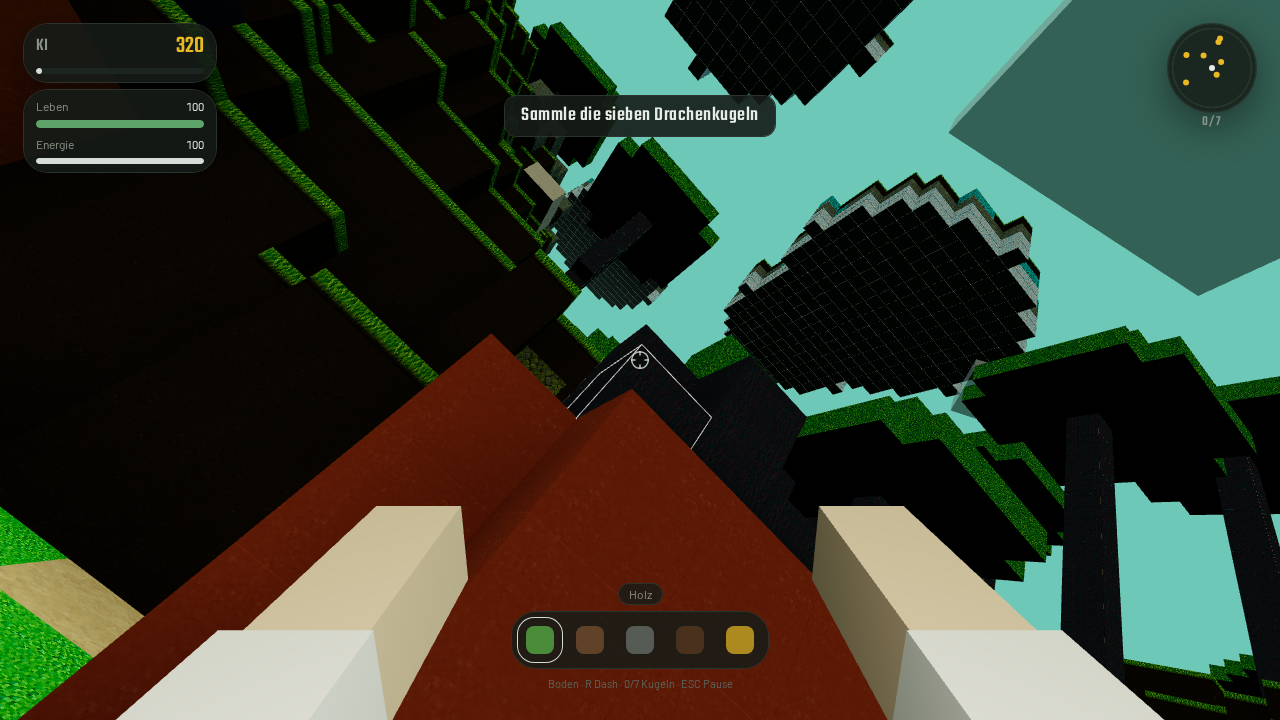
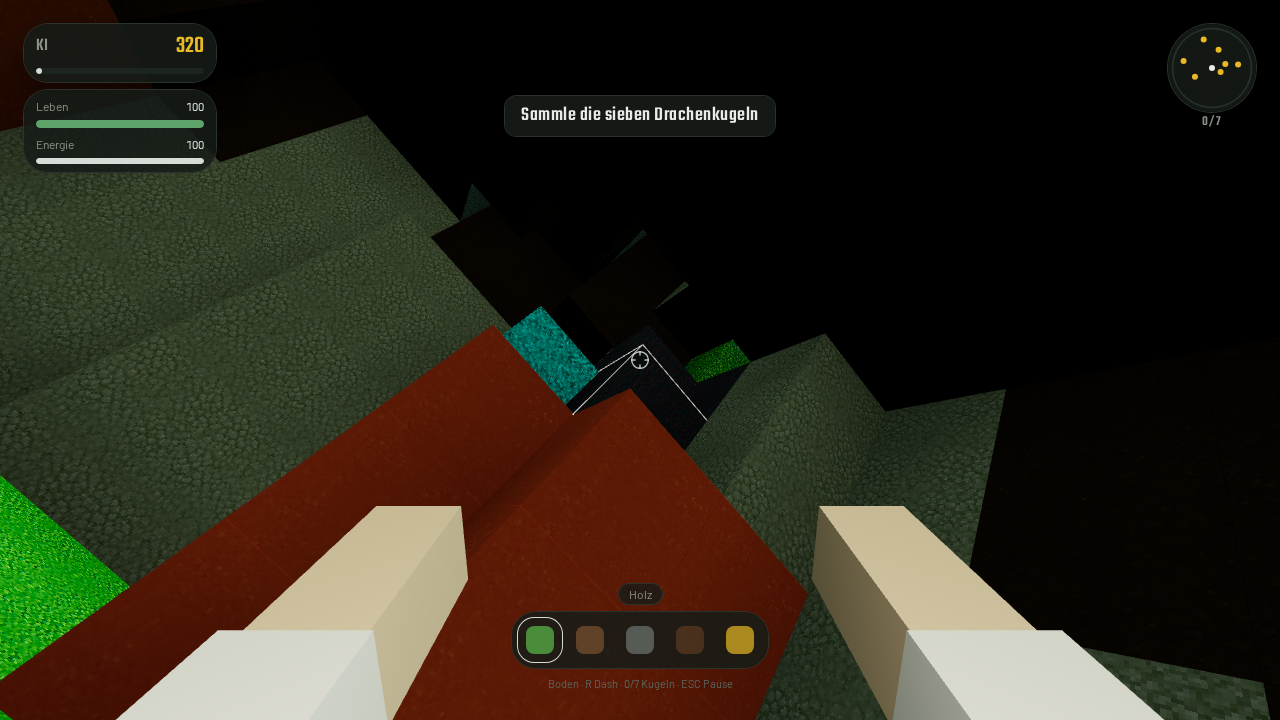
Fix load hang when animation frames are paused
World-gen and chunk meshing now yield via timers, textures no longer block
the title, and the game loop keeps pumping if rAF never fires.

diff --git a/src/game/engine.ts b/src/game/engine.ts
@@ -174,6 +174,7 @@ export class GameEngine {
   private toastT = 0;
   private orbitT = 0;
   private raf = 0;
+  private pump = 0;
   private last = 0;
   private acc = 0;
   private disposed = false;
@@ -297,20 +298,23 @@ export class GameEngine {
 
   async start() {
     if (this.disposed) return;
-    const [atlas, skyTex, kiTex, ballImg] = await Promise.all([
+    useHud.getState().patch({ loadProgress: 0.05 });
+    const texP = Promise.all([
       loadAtlasTexture(),
       loadGameTexture("/game/sky.jpg"),
       loadGameTexture("/game/ki-orb.png"),
       loadHtmlImage("/game/ball.png"),
     ]);
-    if (this.disposed) return;
-    this.atlas.dispose();
-    this.atlas = atlas;
-    this.terrainMat.map = atlas;
-    this.terrainMat.needsUpdate = true;
-    if (skyTex) this.applySkyTex(skyTex);
-    this.kiOrbTex = kiTex;
-    this.ballBase = ballImg;
+    void texP.then(([atlas, skyTex, kiTex, ballImg]) => {
+      if (this.disposed) return;
+      this.atlas.dispose();
+      this.atlas = atlas;
+      this.terrainMat.map = atlas;
+      this.terrainMat.needsUpdate = true;
+      if (skyTex) this.applySkyTex(skyTex);
+      this.kiOrbTex = kiTex;
+      this.ballBase = ballImg;
+    });
 
     const existing = loadSave();
     if (existing) {
@@ -367,36 +371,59 @@ export class GameEngine {
       ssjReady: this.power >= SSJ_POWER,
       hasSave: hasSave(),
     });
+    this.beginLoop();
+  }
+
+  private async buildAllChunks() {
+    const scx = Math.max(0, Math.min(CX - 1, Math.floor(this.px / CHUNK)));
+    const scy = Math.max(0, Math.min(CY - 1, Math.floor(this.py / CHUNK)));
+    const scz = Math.max(0, Math.min(CZ - 1, Math.floor(this.pz / CHUNK)));
+    const order: [number, number, number, number][] = [];
+    for (let cy = 0; cy < CY; cy++) {
+      for (let cz = 0; cz < CZ; cz++) {
+        for (let cx = 0; cx < CX; cx++) {
+          const d = Math.abs(cx - scx) + Math.abs(cy - scy) + Math.abs(cz - scz);
+          order.push([d, cx, cy, cz]);
+        }
+      }
+    }
+    order.sort((a, b) => a[0] - b[0]);
+    const total = order.length;
+    let n = 0;
+    for (const [, cx, cy, cz] of order) {
+      this.rebuildChunk(cx, cy, cz);
+      n++;
+      if (n % 8 === 0) {
+        useHud.getState().patch({ loadProgress: 0.44 + (n / total) * 0.54 });
+        await yieldFrame();
+        if (this.disposed) return;
+      }
+    }
+  }
+
+  private beginLoop() {
     this.last = performance.now();
     this.titleCam();
     this.render(0);
     const loop = (now: number) => {
       if (this.disposed) return;
       this.raf = requestAnimationFrame(loop);
-      let dt = (now - this.last) / 1000;
-      this.last = now;
-      dt = Math.min(dt, 0.1);
-      this.frame(dt);
+      this.tick(now);
     };
     this.raf = requestAnimationFrame(loop);
+    if (this.pump) clearInterval(this.pump);
+    this.pump = window.setInterval(() => {
+      if (this.disposed) return;
+      const now = performance.now();
+      if (now - this.last > 80) this.tick(now);
+    }, 50);
   }
 
-  private async buildAllChunks() {
-    let n = 0;
-    const total = CX * CY * CZ;
-    for (let cy = 0; cy < CY; cy++) {
-      for (let cz = 0; cz < CZ; cz++) {
-        for (let cx = 0; cx < CX; cx++) {
-          this.rebuildChunk(cx, cy, cz);
-          n++;
-          if (n % 10 === 0) {
-            useHud.getState().patch({ loadProgress: 0.18 + (n / total) * 0.78 });
-            await yieldFrame();
-            if (this.disposed) return;
-          }
-        }
-      }
-    }
+  private tick(now: number) {
+    let dt = (now - this.last) / 1000;
+    this.last = now;
+    dt = Math.min(dt, 0.1);
+    this.frame(dt);
   }
 
   private rebuildChunk(cx: number, cy: number, cz: number) {
@@ -2032,6 +2059,10 @@ export class GameEngine {
   dispose() {
     this.disposed = true;
     cancelAnimationFrame(this.raf);
+    if (this.pump) {
+      clearInterval(this.pump);
+      this.pump = 0;
+    }
     this.flushSave();
     this.input.dispose();
     window.removeEventListener("resize", this.onResize);
@@ -2085,15 +2116,43 @@ export class GameEngine {
 }
 
 function yieldFrame() {
-  return new Promise<void>((r) => requestAnimationFrame(() => r()));
+  return new Promise<void>((resolve) => {
+    let settled = false;
+    const done = () => {
+      if (settled) return;
+      settled = true;
+      resolve();
+    };
+    setTimeout(done, 0);
+    try {
+      const ch = new MessageChannel();
+      ch.port1.onmessage = done;
+      ch.port2.postMessage(0);
+    } catch {
+      /* setTimeout covers this */
+    }
+  });
 }
 
 function loadHtmlImage(url: string): Promise<HTMLImageElement | null> {
   return new Promise((resolve) => {
+    let settled = false;
+    const finish = (img: HTMLImageElement | null) => {
+      if (settled) return;
+      settled = true;
+      resolve(img);
+    };
+    const t = window.setTimeout(() => finish(null), 4000);
     const img = new Image();
     img.crossOrigin = "anonymous";
-    img.onload = () => resolve(img);
-    img.onerror = () => resolve(null);
+    img.onload = () => {
+      window.clearTimeout(t);
+      finish(img);
+    };
+    img.onerror = () => {
+      window.clearTimeout(t);
+      finish(null);
+    };
     img.src = url;
   });
 }

diff --git a/src/game/world.ts b/src/game/world.ts
@@ -69,8 +69,20 @@ function disk(dx: number, dz: number, r: number) {
 
 function yieldThread() {
   return new Promise<void>((resolve) => {
-    if (typeof requestAnimationFrame === "function") requestAnimationFrame(() => resolve());
-    else setTimeout(resolve, 0);
+    let settled = false;
+    const done = () => {
+      if (settled) return;
+      settled = true;
+      resolve();
+    };
+    setTimeout(done, 0);
+    try {
+      const ch = new MessageChannel();
+      ch.port1.onmessage = done;
+      ch.port2.postMessage(0);
+    } catch {
+      /* setTimeout covers this */
+    }
   });
 }
 
@@ -216,12 +228,18 @@ export class World {
           if (y === 0) id = BEDROCK;
           else if (y < h - 5) {
             id = STONE;
-            const cave = noise3(x * 0.06, y * 0.085, z * 0.06);
-            const ravine = Math.abs(noiseRav(x * 0.035, y * 0.04, z * 0.035));
-            if (y > 4 && y < h - 2 && cave > 0.52) id = AIR;
-            else if (y > 6 && y < h - 1 && ravine < 0.07 && elev > 0.28) id = AIR;
-            else if (cave > 0.38 && cave < 0.46 && rngC() < 0.22) id = KI;
-            else if (rngC() < 0.012) id = KI;
+            if (y > 4) {
+              const cave = noise3(x * 0.06, y * 0.085, z * 0.06);
+              if (y < h - 2 && cave > 0.52) id = AIR;
+              else if (y > 6) {
+                const ravine = Math.abs(noiseRav(x * 0.035, y * 0.04, z * 0.035));
+                if (y < h - 1 && ravine < 0.07 && elev > 0.28) id = AIR;
+              }
+              if (id === STONE) {
+                if (cave > 0.38 && cave < 0.46 && rngC() < 0.22) id = KI;
+                else if (rngC() < 0.012) id = KI;
+              }
+            } else if (rngC() < 0.012) id = KI;
           } else if (y < h - 1) {
             id = elev > 0.7 ? STONE : DIRT;
           } else if (y === h) {

diff --git a/src/game/textures.ts b/src/game/textures.ts
@@ -241,30 +241,54 @@ export function createAtlasTexture(): THREE.CanvasTexture {
 
 export function loadAtlasTexture(): Promise<THREE.Texture> {
   return new Promise((resolve) => {
+    let settled = false;
+    const finish = (tex: THREE.Texture) => {
+      if (settled) return;
+      settled = true;
+      resolve(tex);
+    };
+    const t = window.setTimeout(() => finish(createAtlasTexture()), 4000);
     const loader = new THREE.TextureLoader();
     loader.setCrossOrigin("anonymous");
     loader.load(
       "/game/atlas.png",
-      (tex) => resolve(styleAtlas(tex)),
+      (tex) => {
+        window.clearTimeout(t);
+        finish(styleAtlas(tex));
+      },
       undefined,
-      () => resolve(createAtlasTexture()),
+      () => {
+        window.clearTimeout(t);
+        finish(createAtlasTexture());
+      },
     );
   });
 }
 
 export function loadGameTexture(url: string): Promise<THREE.Texture | null> {
   return new Promise((resolve) => {
+    let settled = false;
+    const finish = (tex: THREE.Texture | null) => {
+      if (settled) return;
+      settled = true;
+      resolve(tex);
+    };
+    const t = window.setTimeout(() => finish(null), 4000);
     const loader = new THREE.TextureLoader();
     loader.setCrossOrigin("anonymous");
     loader.load(
       url,
       (tex) => {
+        window.clearTimeout(t);
         tex.colorSpace = THREE.SRGBColorSpace;
         tex.needsUpdate = true;
-        resolve(tex);
+        finish(tex);
       },
       undefined,
-      () => resolve(null),
+      () => {
+        window.clearTimeout(t);
+        finish(null);
+      },
     );
   });
 }

diff --git a/src/components/game-app.tsx b/src/components/game-app.tsx
@@ -23,21 +23,26 @@ export function GameApp() {
   useEffect(() => {
     const canvas = canvasRef.current;
     if (!canvas) return;
-    let cancelled = false;
+    let alive = true;
     let engine: GameEngine | null = null;
-    void import("@/game/engine")
-      .then(({ GameEngine }) => {
-        if (cancelled || !canvasRef.current) return;
+    const failTimer = window.setTimeout(() => {
+      if (alive && useHud.getState().phase === "loading") setFail(true);
+    }, 25000);
+    void (async () => {
+      try {
+        const { GameEngine } = await import("@/game/engine");
+        if (!alive || !canvasRef.current) return;
         engine = new GameEngine(canvasRef.current);
         engineRef.current = engine;
-        return engine.start();
-      })
-      .catch((err) => {
+        await engine.start();
+      } catch (err) {
         console.error(err);
-        if (!cancelled) setFail(true);
-      });
+        if (alive) setFail(true);
+      }
+    })();
     return () => {
-      cancelled = true;
+      alive = false;
+      window.clearTimeout(failTimer);
       engine?.dispose();
       engineRef.current = null;
     };

diff --git a/CHANGELOG.md b/CHANGELOG.md
@@ -4,6 +4,7 @@
 
 - World actually draws after Spielen (direct renderer, no bloom pass that went black)
 - Load bar moves while the island generates; Spielen is ready as soon as the title is up
+- Load no longer stalls if animation frames are paused (preview / background tab)
 
 ## 0.4.0 — 2026-08-27
 
